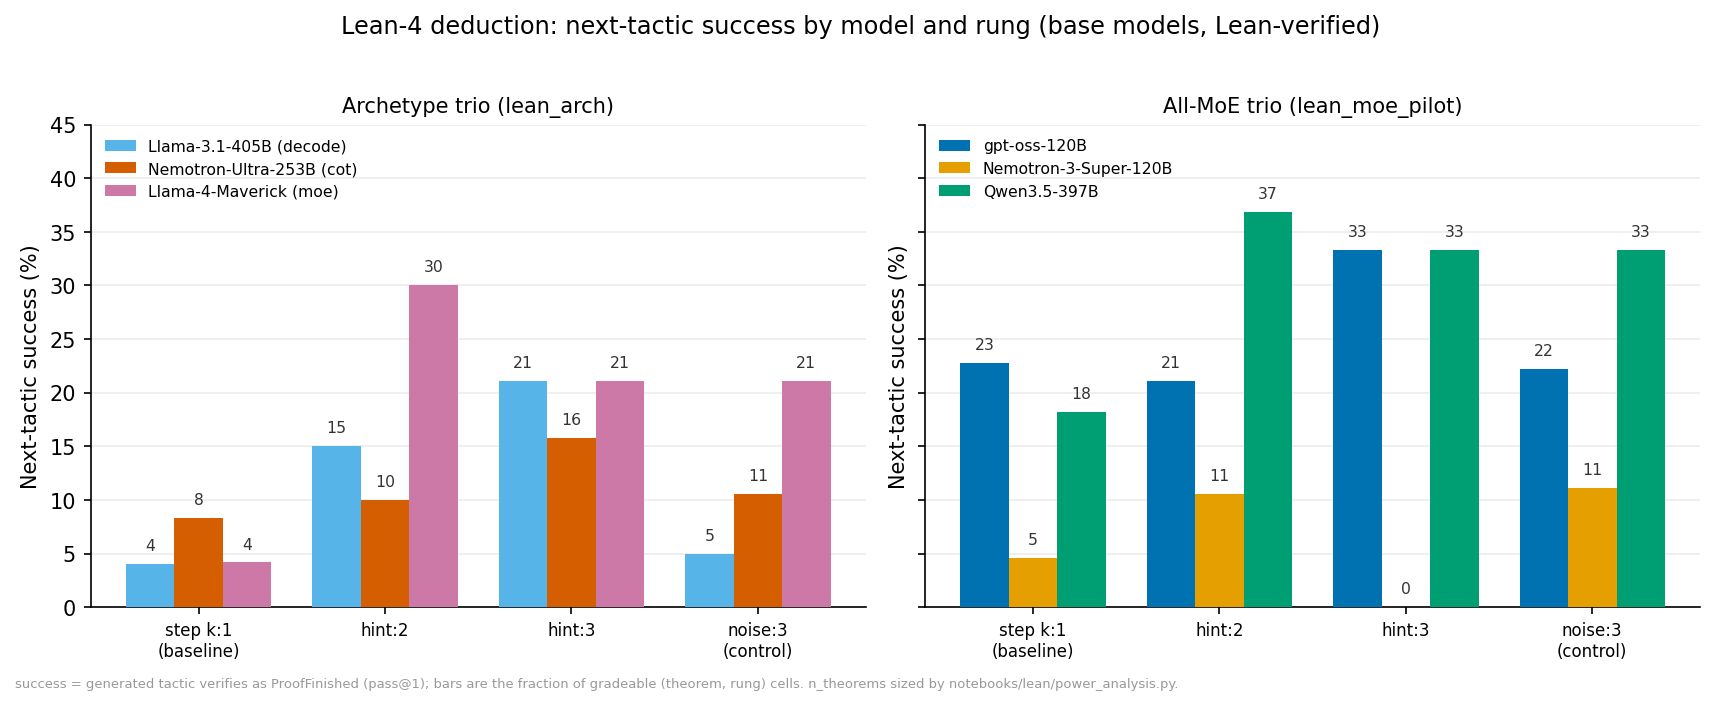
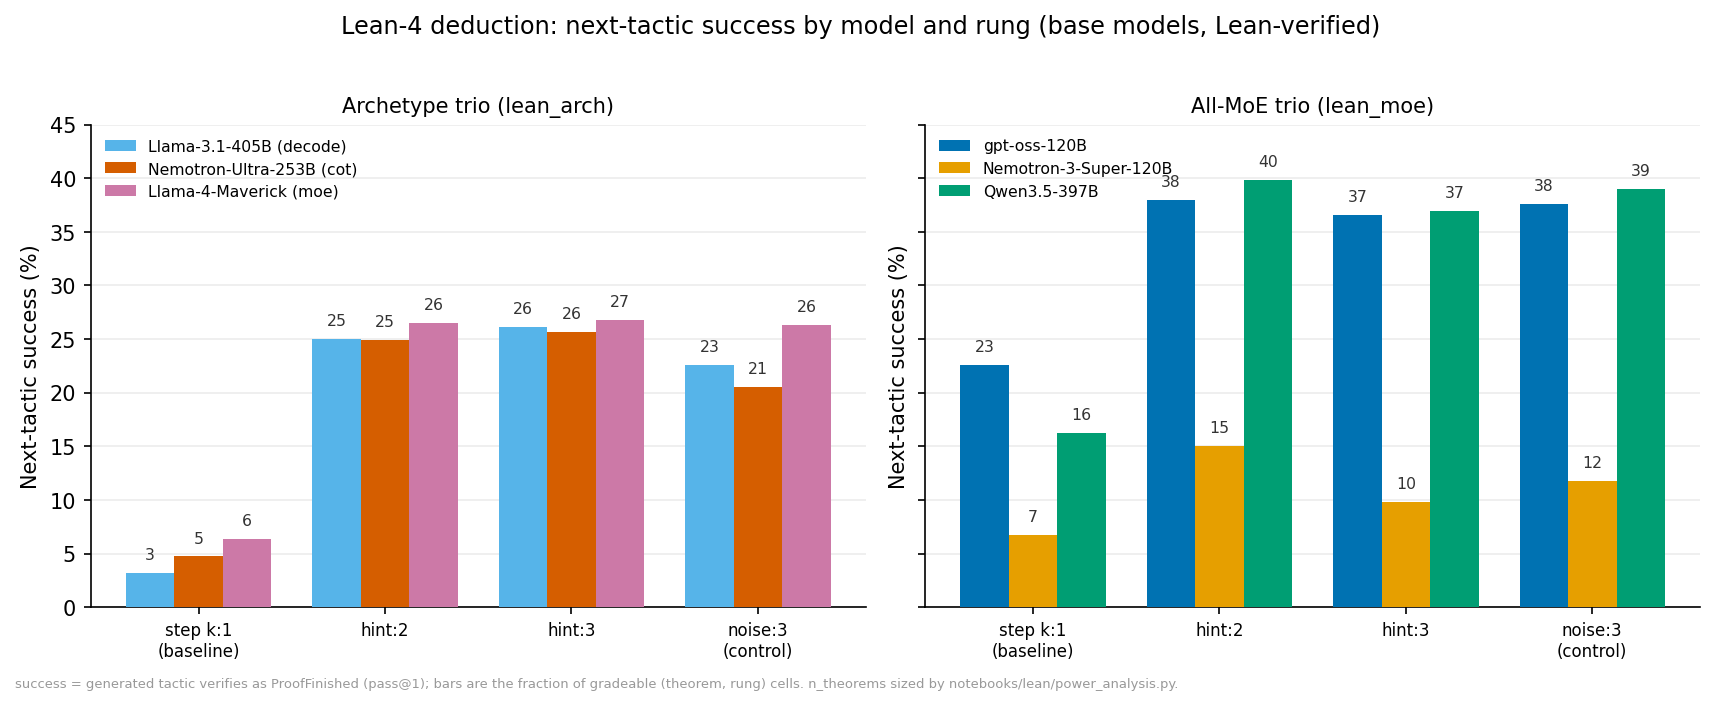
lean deduction: powered results doc + two-trio figure
Add DEDUCTION_RESULTS.md (full n=252-paired-theorem power analysis for both
the archetype and all-MoE trios) and regenerate the two-panel success figure.
Point power_analysis.py's default trios at the full n=300 runs (lean_arch,
lean_moe) instead of the pilots so the no-arg command auto-detects both.

Claude-Session: https://claude.ai/code/session_01VhRPE7hWZiSRfKQsGnAgFe

diff --git a/notebooks/lean/power_analysis.py b/notebooks/lean/power_analysis.py
@@ -145,12 +145,12 @@ RESULTS_RUNS = _REPO_ROOT / "notebooks" / "lean" / "results" / "runs"
 #: not assumed; order is just for stable printing). Values are the ``model``
 #: display strings the runner writes into all_rows.jsonl.
 TRIOS = {
-    "lean_moe_pilot": [
+    "lean_moe": [
         "gpt-oss-120b-base",
         "nemotron-3-super-120b-a12b-base",
         "qwen3.5-397b-a17b-base",
     ],
-    "lean_arch_pilot": [
+    "lean_arch": [
         "llama-31-405b-base",
         "nemotron-ultra-253b-base",
         "llama4-maverick-base",
@@ -430,8 +430,8 @@ def analyze_run(run_name: str) -> None:
 def main(argv: list[str] | None = None) -> int:
     p = argparse.ArgumentParser(description=__doc__, formatter_class=argparse.RawDescriptionHelpFormatter)
     p.add_argument("--run", action="append",
-                   help="pilot run-name under results/runs/ (repeatable). "
-                        "Default: both lean_moe_pilot and lean_arch_pilot.")
+                   help="run-name under results/runs/ (repeatable). "
+                        "Default: both lean_moe and lean_arch (the full n=300 runs).")
     args = p.parse_args(argv)
     runs = args.run or list(TRIOS.keys())
     print(f"Lean deduction model-comparison power analysis (seed {SEED}, {SIMS} sims/point)")

diff --git a/notebooks/lean/DEDUCTION_RESULTS.md b/notebooks/lean/DEDUCTION_RESULTS.md
@@ -1,0 +1,155 @@
+# Lean-4 Deduction: Powered Results for Two Model Trios
+
+Model-comparison study on the `smolbench.deduction.lean` next-tactic harness. Two
+completed base-model runs live under `notebooks/lean/results/runs/`:
+
+- **`lean_arch`** — the ARCHETYPE trio (same models as the `notebooks/periodic`
+  induction study): `llama-31-405b` (decode), `nemotron-ultra-253b` (cot),
+  `llama4-maverick` (moe).
+- **`lean_moe`** — the all-MoE trio (same models as `notebooks/periodic_moe`):
+  `gpt-oss-120b`, `nemotron-3-super-120b-a12b`, `qwen3.5-397b-a17b`.
+
+## Setup
+
+- Theorems: `novel_premises/val`, `limit=300`, `seed=1776`, source `replay_passing`.
+  After model-independent corpus/trivial skips, **252 theorems are paired** across
+  all three models of each trio (840 gradeable `(theorem, rung)` cells per model).
+- Rungs (ladder of proof context handed to the model): `stepk:1` (baseline, least
+  context) → `hint:2` → `hint:3` (help ladder) → `noise:3` (length control).
+- `R=1` rollout, `temperature=0.7`, `max_tokens=32768`, base (non-LoRA) models.
+- **Success** = the generated tactic Lean-verifies as `ProofFinished`
+  (`verdict == "success"`), measured **pass@1**.
+
+## Method — `notebooks/lean/power_analysis.py`
+
+The "result" being measured is a **ranking of models by next-tactic success rate**.
+The sizer asks, for each of the three model pairs in a trio, whether the pair is a
+genuine DIFFERENCE (and at what `n_theorems` it separates at ≥80% power) or a
+near-TIE (certified equivalent within a ±0.10 band) rather than left ambiguous.
+
+- **Unit** = one `(theorem_id, k, rung)` cell; the three models see the SAME cells,
+  so every pair is a PAIRED comparison. Test = **McNemar's exact test on the
+  discordant cells**, **stratified by rung** (difficulty varies systematically with
+  the rung; pooled McNemar is the conservative single-stratum collapse used for
+  sizing).
+- **`n_theorems` sizing = block bootstrap of the REAL joint cells.** Resample whole
+  theorems (each block carries all its rungs, preserving within-theorem cross-rung
+  correlation) up to a target `n_theorems`, recompute each pair's McNemar p, report
+  the rejection rate. Uses the effect sizes actually observed — no parametric
+  assumption. The equivalence verdict reads the 90% bootstrap CI of the paired
+  rate-gap against the ±0.10 band.
+- **pass@N advisory** = a Beta-mixture projection of unobserved rollouts (shared
+  coarse per-theorem difficulty + idiosyncratic per-model skill), asking whether
+  adding rollouts buys separation.
+
+### Headline methodological finding
+
+**`n_theorems` is the confidence lever; adding rollouts does NOT separate models.**
+For a near-tie, the pass@N advisory shows power *falling* as N grows (e.g. MoE
+gpt-oss~qwen3.5: `1.00→…` for the true differences but `0.02→0.00` for the tie as
+`N: 1→8`). This is the **pass@N ceiling effect**: as N rises, both models saturate
+toward the theorem's solvable ceiling, discordant cells vanish, and McNemar loses
+power. Only adding theorems adds discordant cells. Rollouts are therefore useless
+for separating close models — a wider theorem sample is the only lever.
+
+---
+
+## Archetype trio (`lean_arch`) — a certified three-way near-tie
+
+Per-model pass@1 over the 252-paired-theorem / 840-cell set:
+
+| Model | pass@1 | cells | stepk:1 | hint:2 | hint:3 | noise:3 |
+|---|---|---|---|---|---|---|
+| Llama-4-Maverick (moe) | **0.205** | 172/840 | 0.06 | 0.27 | 0.27 | 0.26 |
+| Llama-3.1-405B (decode) | **0.182** | 153/840 | 0.03 | 0.25 | 0.26 | 0.23 |
+| Nemotron-Ultra-253B (cot) | **0.181** | 152/840 | 0.05 | 0.25 | 0.26 | 0.21 |
+
+Union-solvable (any model): 0.360. Per-rung n ≈ 252/200/195/195 (stepk:1/hint:2/hint:3/noise:3).
+
+**Pairwise power verdicts** (Bonferroni α = 0.05/3 = 0.0167; band ±0.10):
+
+| Pair | gap | verdict |
+|---|---|---|
+| Llama-3.1-405B vs Llama-4-Maverick | −0.023 | **NEAR-TIE** — equivalent within [−0.06, +0.01] at n=300 |
+| Llama-3.1-405B vs Nemotron-Ultra-253B | +0.001 | **NEAR-TIE** — equivalent within [−0.03, +0.03] at n=300 |
+| Llama-4-Maverick vs Nemotron-Ultra-253B | +0.024 | **NEAR-TIE** — equivalent within [−0.01, +0.06] at n=300 |
+
+**No difference pair reaches 80% power within n≤300** — the bootstrap power for the
+two maverick pairs is only ~0.27 even at n=300. All three pairs are certified
+equivalent within ±0.10. The pass@N advisory tops out at 0.14 (N=1) and *falls* with
+more rollouts, confirming rollouts cannot rescue separation.
+
+The full-run spread is only **~2pp** (maverick 20.5% vs 18.2% / 18.1%). The study's
+earlier 30-theorem pilot sizing had left an impression of a larger (~7pp) maverick
+edge; the full n=252 run dissolves it to ~2pp, and the power analysis shows even that
+2pp is **statistically indistinguishable from zero** at any feasible n. This is the
+"replicate, don't re-size" lesson made concrete: a ~2pp truth is pure noise at n=30.
+
+---
+
+## MoE trio (`lean_moe`) — gpt-oss ≈ qwen3.5 near-tie ≫ nemotron-3
+
+Per-model pass@1 over the 252-paired-theorem / 840-cell set:
+
+| Model | pass@1 | cells | stepk:1 | hint:2 | hint:3 | noise:3 |
+|---|---|---|---|---|---|---|
+| gpt-oss-120B | **0.330** | 277/840 | 0.23 | 0.38 | 0.37 | 0.38 |
+| Qwen3.5-397B | **0.320** | 269/840 | 0.16 | 0.40 | 0.37 | 0.39 |
+| Nemotron-3-Super-120B | **0.106** | 89/840 | 0.07 | 0.15 | 0.10 | 0.12 |
+
+Union-solvable (any model): 0.455. Per-rung n ≈ 252/200/194/195.
+
+**Pairwise power verdicts** (Bonferroni α = 0.0167; band ±0.10):
+
+| Pair | gap | verdict |
+|---|---|---|
+| gpt-oss-120B vs Nemotron-3-Super-120B | +0.224 | **DIFFERENCE** — ≥80% power at n=30 |
+| Nemotron-3-Super-120B vs Qwen3.5-397B | −0.214 | **DIFFERENCE** — ≥80% power at n=30 |
+| gpt-oss-120B vs Qwen3.5-397B | +0.010 | **NEAR-TIE** — equivalent within [−0.02, +0.04] at n=300 |
+
+gpt-oss and qwen3.5 are a **dead heat** (gpt-oss nominally +1.0pp, certified
+equivalent within ±0.10 by n=300). Both crush nemotron-3, which is separated from
+each at ≥80% power with only n=30 theorems. The pass@N advisory for the tie runs
+`0.02→0.00` as `N: 1→8` (rollouts hurt, not help); the two differences stay at
+1.00 throughout.
+
+**Pilot → full-n contrast (real numbers).** The R=1 30-theorem pilot
+(`lean_moe_pilot`, 22 paired theorems) point-estimated **qwen3.5 0.299 > gpt-oss
+0.247 ≫ nemotron-3 0.065** — i.e. it put qwen ~5pp *ahead* and nemotron at 6.5%.
+The full n=252 run **reverses the nominal order to a certified tie** (gpt-oss 0.330 ≈
+qwen 0.320) and lifts nemotron-3 to **0.106**. The pilot over-stated qwen's lead and
+under-stated the weakest model's floor; note that even the pilot's bootstrap refused
+to separate the gpt-oss~qwen pair (equivalent within [−0.09, −0.01] at n=300),
+correctly flagging it as a near-tie despite the misleading point estimate.
+
+---
+
+## Cross-eval synthesis
+
+- **The Nemotron variant is the weakest of its trio on deduction, in both studies.**
+  In the MoE trio, `nemotron-3-super-120b` collapses to 0.106 while its two
+  trio-mates sit at ~0.32 — the same Nemotron-specific weakness the induction studies
+  found (`notebooks/periodic_moe`: nemotron-3 extensive-listing collapse to 0.444
+  vs ~0.97 trio-mates). Qwen leads (or ties for the lead on) both evals.
+- **The near-ties are genuine, not underpowering.** gpt-oss≈qwen3.5 (~1pp) and the
+  entire archetype trio (~2pp spread) are certified equivalent within ±0.10 at n=300.
+  Sub-~5pp gaps between these models are **not separable at any feasible `n`**, and
+  the pass@N ceiling effect means **rollouts cannot buy the separation** — only more
+  theorems can, and even n=300 is not enough for a ~2pp gap.
+- **Where a real gap exists it is cheap to certify.** The gpt-oss / qwen3.5 vs
+  nemotron-3 differences (~0.22) clear ≥80% power at just n=30 theorems, R=1. The
+  cost asymmetry is the whole story: big gaps are trivially confident, small gaps are
+  hopeless — so report them as ties rather than chase them with more compute.
+
+---
+
+## Artifacts
+
+- Figure: `notebooks/lean/figures/deduction_success_bars.png` (two panels, per-model
+  next-tactic success by rung; generated by
+  `notebooks/lean/figures/deduction_success_bars.py`).
+- Power analysis: `notebooks/lean/power_analysis.py` (defaults to both full runs;
+  run as `OPENBLAS_NUM_THREADS=1 OMP_NUM_THREADS=1 .venv/bin/python
+  notebooks/lean/power_analysis.py`).
+- Raw data: `notebooks/lean/results/runs/lean_arch/` and `.../lean_moe/`
+  (`all_rows.jsonl`, `analysis.txt`, `manifest.json`).
